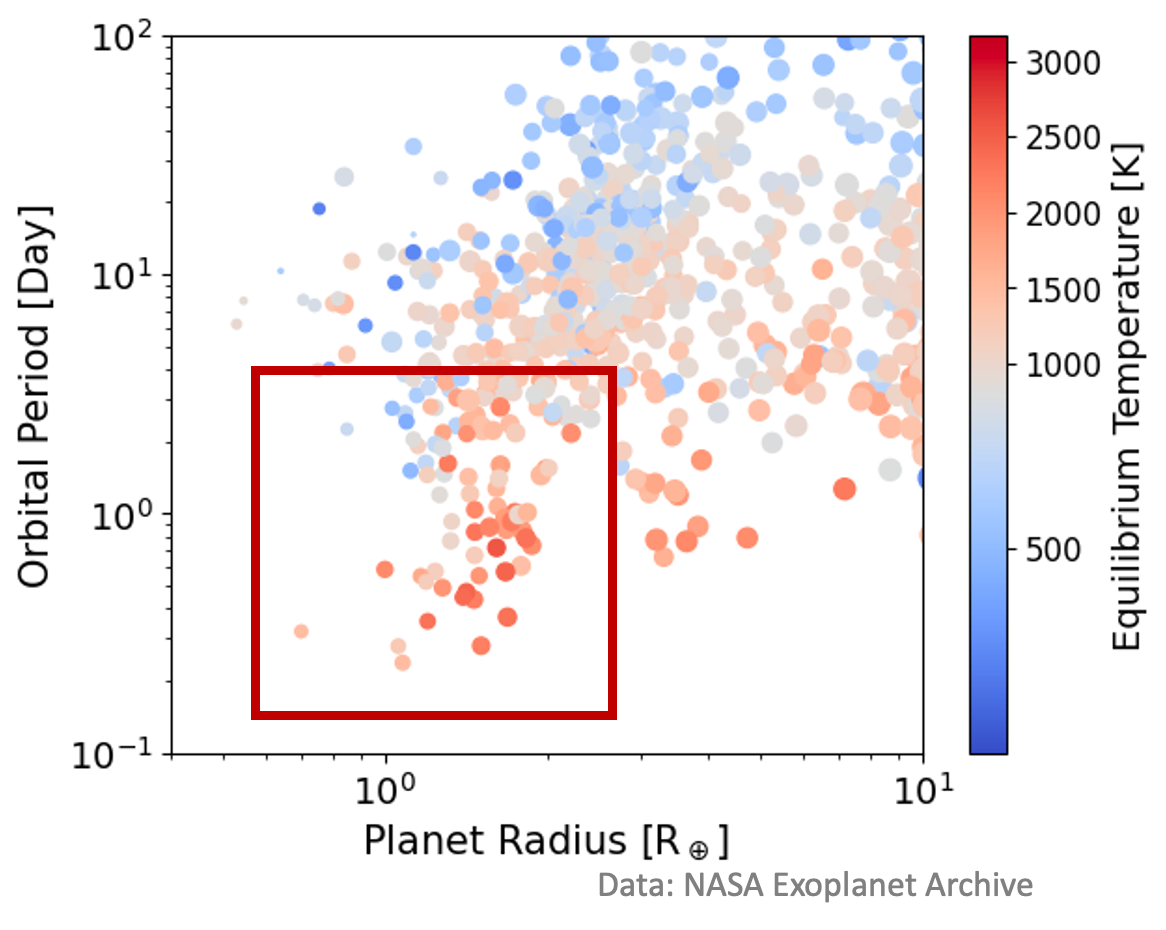
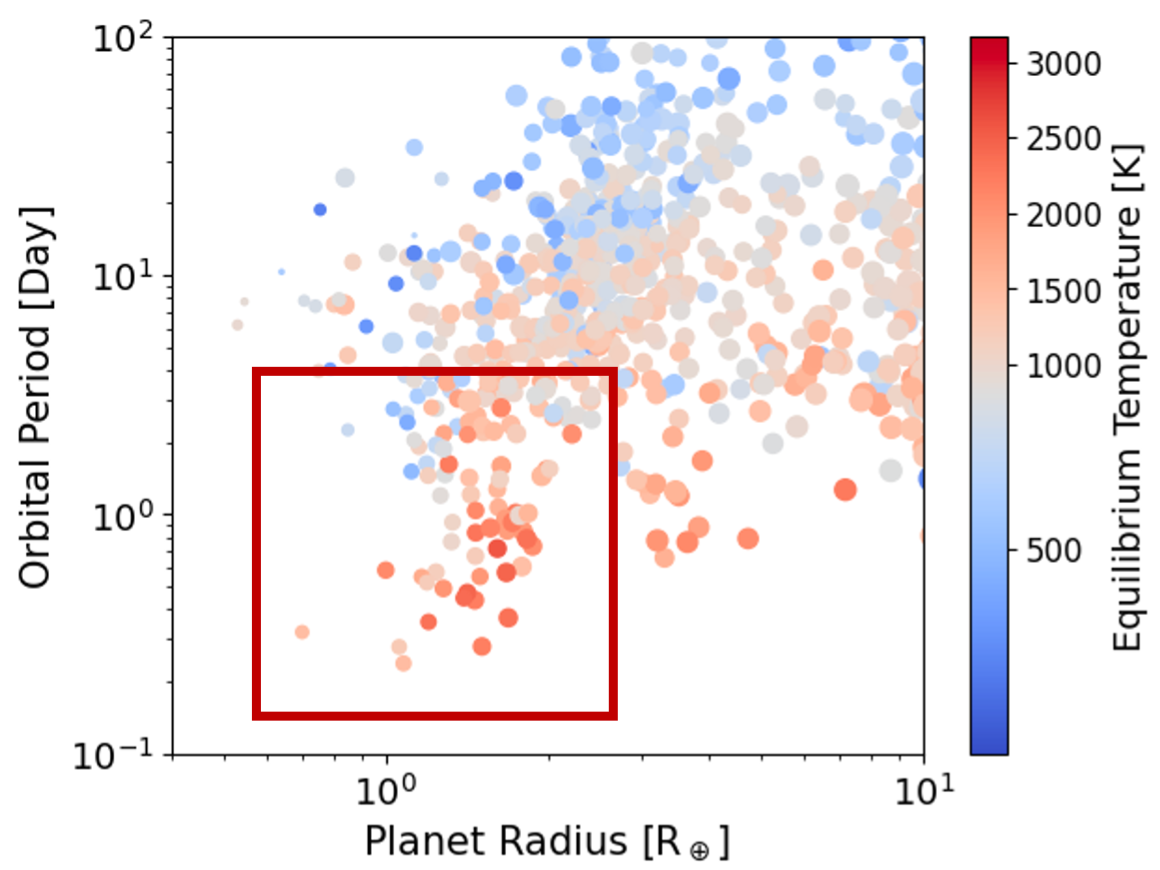
update config

diff --git a/content/research/_index.md b/content/research/_index.md
@@ -423,11 +423,11 @@ sections:
                 <div class="research-eyebrow">Ultra-short-period planets</div>
                 <h2>Ultra-Short-Period Rocky Planets: From Temperate Worlds to Lava Worlds</h2>
                 <p class="research-copy">Ultra-short-period rocky planets, with orbital periods of hours to days, are among the most favorable small planets for atmospheric characterization. They can be habitable-zone planets around white dwarfs, warm terrestrial planets around M stars such as TRAPPIST-1 b, or lava worlds around K or G stars such as 55 Cancri e and TOI-561 b.</p>
-                <p class="research-copy">Because they orbit within the tidal-locking radius, many likely keep permanent daysides and nightsides, like the Moon facing Earth. At the same time, their short orbital periods imply rapid rotation. The two project blocks below follow this theme from <a href="#wd-extension">temperate white-dwarf planets</a> to <a href="#hot-extension">lava worlds with non-grey radiative transfer</a>: the first shows that ultra-short-period habitable-zone planets can develop a bat-rotation regime, while the second tests how realistic radiation changes the interpretation of hot rocky exoplanet atmospheres.</p>
+                <p class="research-copy">Because they orbit within the tidal-locking radius, many likely keep permanent daysides and nightsides, like the Moon facing Earth. At the same time, their short orbital periods imply rapid rotation. Read the project blocks below to learn more.</p>
               </div>
               <figure class="research-image-panel">
                 <img src="/images/exoplanet_distribution.png" alt="Orbital periods and radii of confirmed exoplanets">
-                <figcaption class="research-caption">Confirmed exoplanets show that ultra-short-period small planets occupy the most observationally accessible end of the rocky-planet population.</figcaption>
+                <figcaption class="research-caption">Orbital period, planet radius, and equilibrium temperature of confirmed exoplanets.</figcaption>
               </figure>
             </div>
           </section>